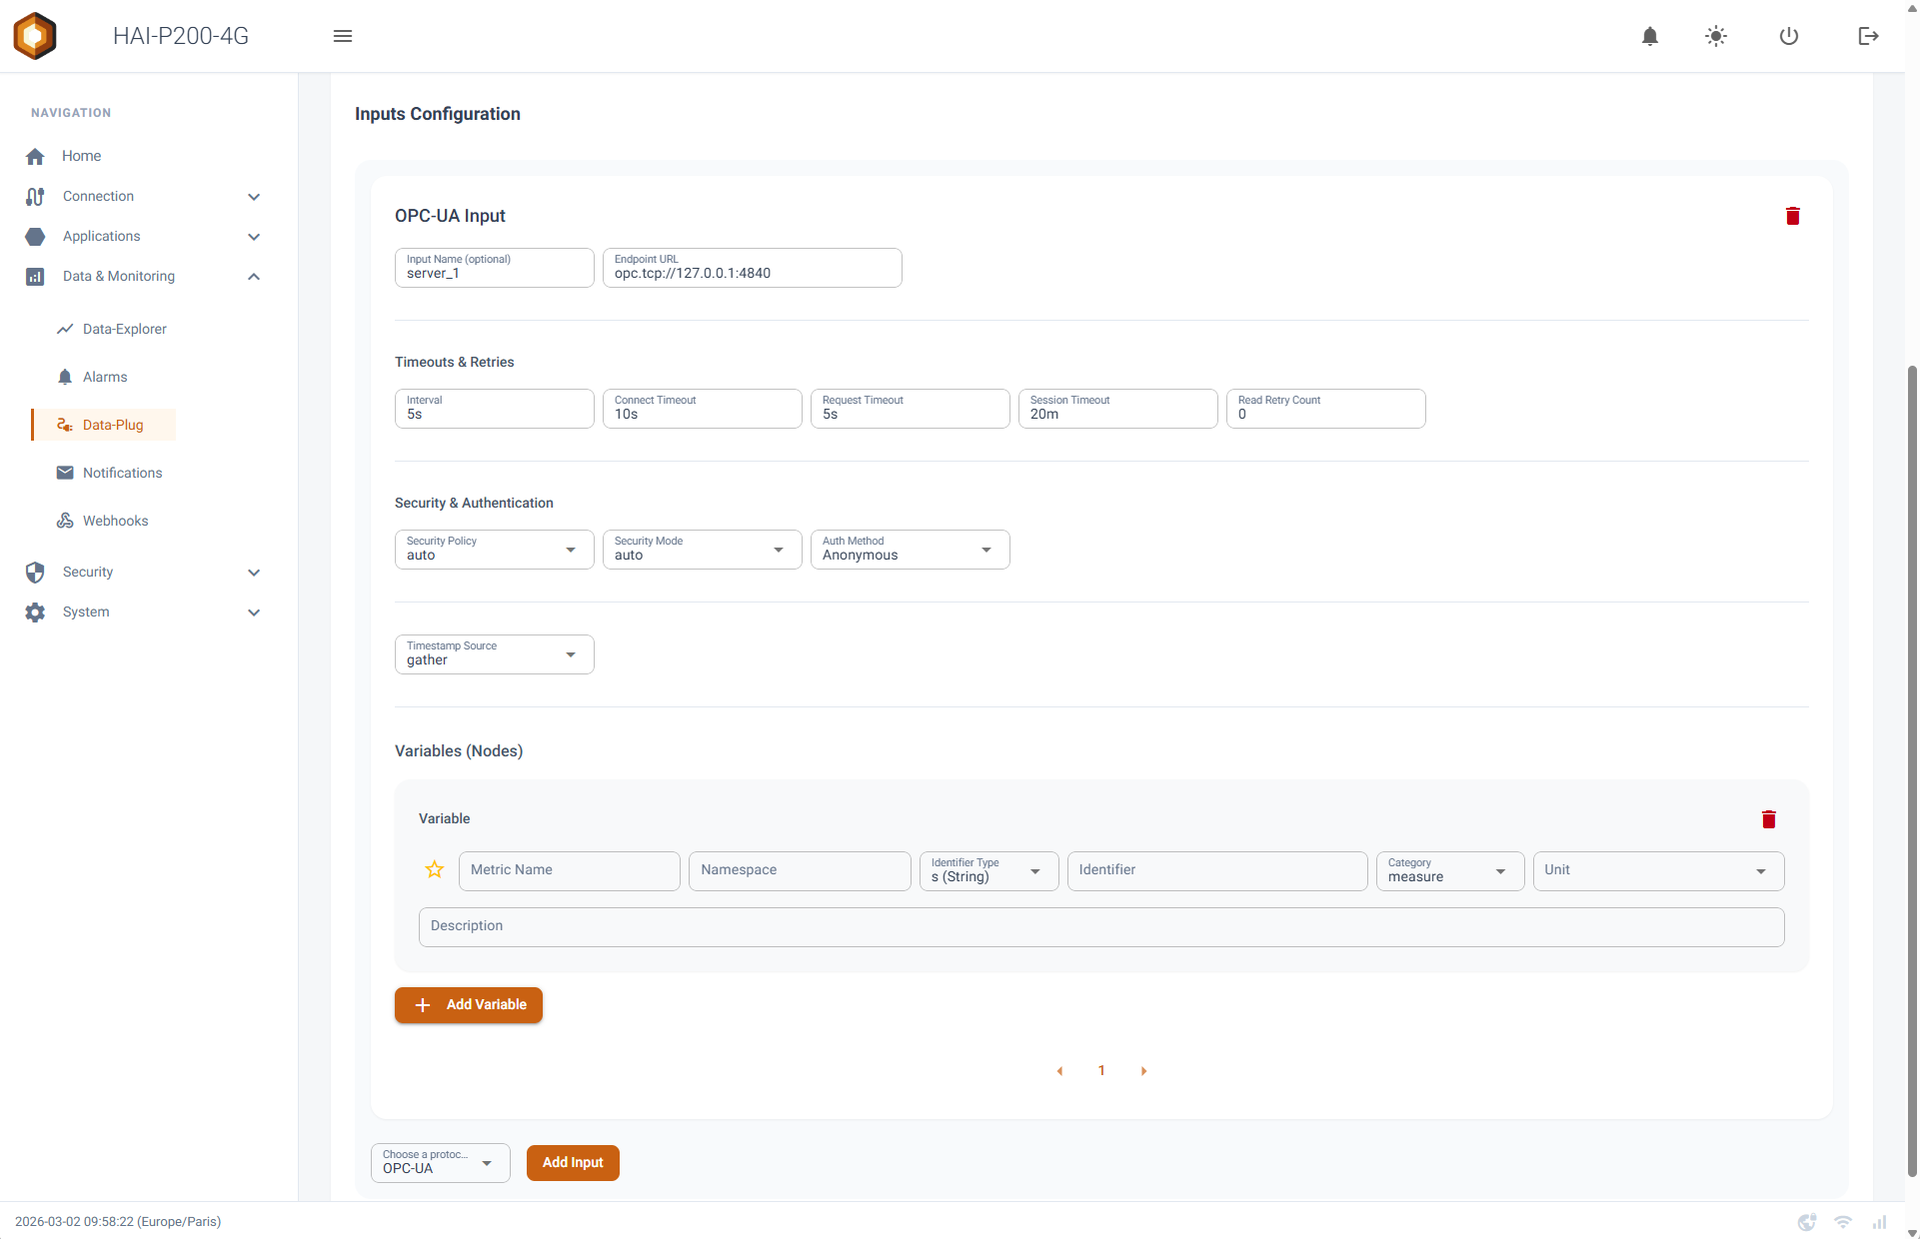
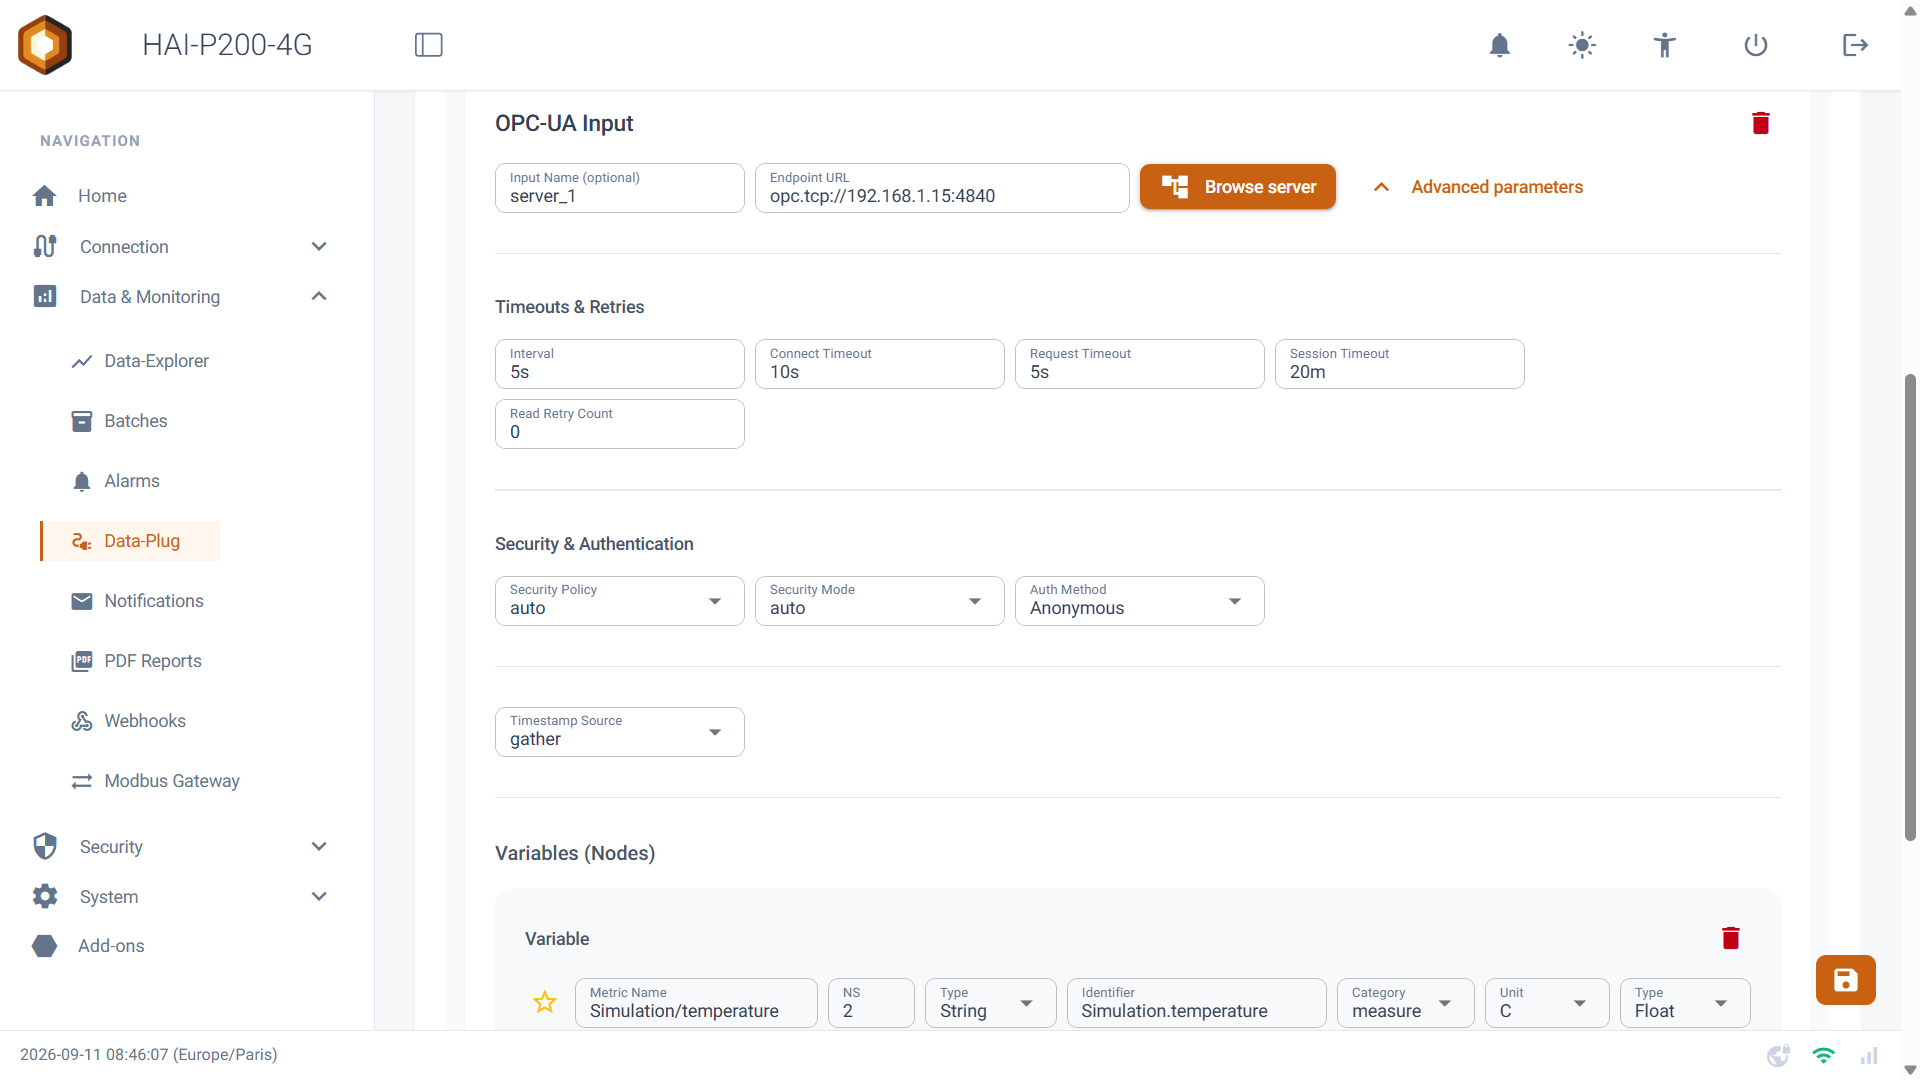
Ajouter les captures escalade et explorateur OPC-UA, aligner les filets
Deux captures fournies par Theo entrent dans la documentation, en
francais comme en anglais :

- escalation.png sur la page Notifications, apres le paragraphe de la
  frise qui cloture la description du tableau. Elle montre toute la
  carte : l'interrupteur, la portee Apply to, les trois options, les
  colonnes Outside the chain, Level 1 et Level 2 avec leurs
  destinataires et canaux, et la frise Chain timeline.
- browse-opcua.png sur la page d'acquisition, dans la section
  « Explorer le serveur depuis l'interface ». Elle montre l'arborescence
  du serveur, les cases a cocher, les variables de type non supporte
  grisees et le bouton Add selection.

Les deux textes alternatifs decrivent ce que les captures montrent
reellement, elles ont ete ouvertes avant d'etre decrites.

Filets du sommaire : ils demarrent maintenant au pied du texte du rang
superieur, et non quelques pixels avant. Starlight calculait le retrait
des entrees a partir de leur profondeur — 8, 24 puis 40 px — ce qui
melangeait deux mecanismes : le decalage venait a la fois de l'entree et
de la liste, et aucun filet ne pouvait tomber juste. Le retrait des
entrees devient constant, la liste seule le creuse, et la marge vaut
exactement ce retrait.

Releve : texte a 930, 946 et 963 px, filets a 930 et 946 — chacun tombe
au pied du texte du rang au-dessus, avec un pas regulier de 16 px.

Verification : npm run build passe, 54 pages, 1670 liens, 0 casse. Les
[…]

diff --git a/src/styles/hexa.css b/src/styles/hexa.css
@@ -289,6 +289,13 @@ header.header {
     font-size: var(--sl-text-sm);
     line-height: 1.45;
     padding-block: 0.3rem;
+
+    /* Retrait constant, quel que soit le rang. Starlight le calcule a partir
+       de la profondeur (8, 24, 40 px), ce qui melange deux mecanismes : le
+       decalage viendrait a la fois de l'entree et de la liste, et le filet
+       d'un niveau ne pourrait plus tomber au pied du texte du niveau au-dessus.
+       C'est desormais la liste seule qui creuse le retrait. */
+    padding-inline-start: 0.5rem;
   }
 
   /* Filets d'imbrication, a la maniere des guides d'un editeur de code.
@@ -296,11 +303,11 @@ header.header {
      toute la hauteur du groupe, enfants imbriques compris. Un sous-sous-titre
      a ainsi deux traits a sa gauche — le sien, et celui de son parent qui se
      poursuit derriere lui.
-     Pose sur les entrees, comme auparavant, le trait s'arretait a chaque ligne
-     et le niveau parent disparaissait des qu'un enfant s'ouvrait. */
+     La marge vaut exactement le retrait des entrees : chaque filet tombe donc
+     au pied du texte du rang superieur, et non quelques pixels avant. */
   .right-sidebar-panel ul ul {
-    margin-inline-start: 0.1rem;
-    padding-inline-start: 0.7rem;
+    margin-inline-start: 0.5rem;
+    padding-inline-start: 0.5rem;
     border-inline-start: 1px solid var(--sl-color-hairline);
   }
 

diff --git a/src/content/docs/en/acquisition/configuration.md b/src/content/docs/en/acquisition/configuration.md
@@ -103,6 +103,8 @@ Rather than typing the Namespace / Identifier Type / Identifier triplet in by ha
 
 Tick the variables you want — only Variables with a usable type (BOOL, INT, FLOAT, STRING) can be ticked — then confirm. Each imported variable arrives with its full BrowseName path as its name (Plant/Line1/Temperature, for example), along with its description and its type as read from the server.
 
+![The Browse OPC-UA Server window: the tree of server opc.tcp://192.168.1.15:4840, a checkbox in front of each node, variables with an unsupported type greyed out, Cancel and Add selection buttons](../../acquisition/browse-opcua.png)
+
 ##### Certificates
 
 As soon as the security policy is no longer None, the **Generate client key pair** button creates and downloads a self-signed client certificate (10-year validity) straight from the interface: there is no need to build one separately. The **Trusted Server Certificate** field additionally lets you pin the server's certificate, so that only that one is accepted.

diff --git a/src/content/docs/acquisition/configuration.md b/src/content/docs/acquisition/configuration.md
@@ -103,6 +103,8 @@ Plutôt que de saisir le triplet Namespace / Identifier Type / Identifier à la 
 
 Cochez les variables voulues — seules les Variables dont le type est exploitable (BOOL, INT, FLOAT, STRING) sont cochables — puis validez. Chaque variable importée arrive avec son chemin BrowseName complet comme nom (ex. Plant/Line1/Temperature), ainsi que sa description et son type lus sur le serveur.
 
+![Fenêtre Browse OPC-UA Server : arborescence du serveur opc.tcp://192.168.1.15:4840, cases à cocher devant chaque nœud, variables de type non supporté grisées, boutons Cancel et Add selection](./browse-opcua.png)
+
 ##### Certificats
 
 Dès que la politique de sécurité n'est plus None, le bouton **Generate client key pair** crée et télécharge un certificat client auto-signé (validité 10 ans) directement depuis l'interface : inutile de le fabriquer à part. Le champ **Trusted Server Certificate** permet en complément d'épingler le certificat du serveur, pour n'accepter que lui.

diff --git a/src/content/docs/en/alerts/notifications.md b/src/content/docs/en/alerts/notifications.md
@@ -103,6 +103,8 @@ Tiers are configured on a table of columns, using drag and drop:
 
 A **Chain timeline** strip below the table sums up how things unfold over time (T+0, T+5 min, …), so you can check at a glance that an unhandled incident does eventually escalate, and how long that takes.
 
+![The HAI-OS escalation card: the Enable escalation switch, the Apply to scope, the three options, the Outside the chain, Level 1 and Level 2 columns with their recipients and channels, and the Chain timeline strip](../../alerts/escalation.png)
+
 #### Acknowledging
 
 A recipient acknowledges in one of three ways:

diff --git a/src/content/docs/alerts/notifications.md b/src/content/docs/alerts/notifications.md
@@ -103,6 +103,8 @@ Les paliers se configurent sur un tableau en colonnes, à faire glisser :
 
 Une frise **Chain timeline** sous le tableau récapitule le déroulé dans le temps (T+0, T+5 min, …), pour vérifier d'un coup d'œil qu'un incident non traité finit bien par remonter, et en combien de temps.
 
+![Carte Escalade de HAI-OS : interrupteur Enable escalation, portée Apply to, les trois options, les colonnes Outside the chain, Level 1 et Level 2 avec leurs destinataires et canaux, et la frise Chain timeline](./escalation.png)
+
 #### Acquitter
 
 Un destinataire acquitte de trois façons :
